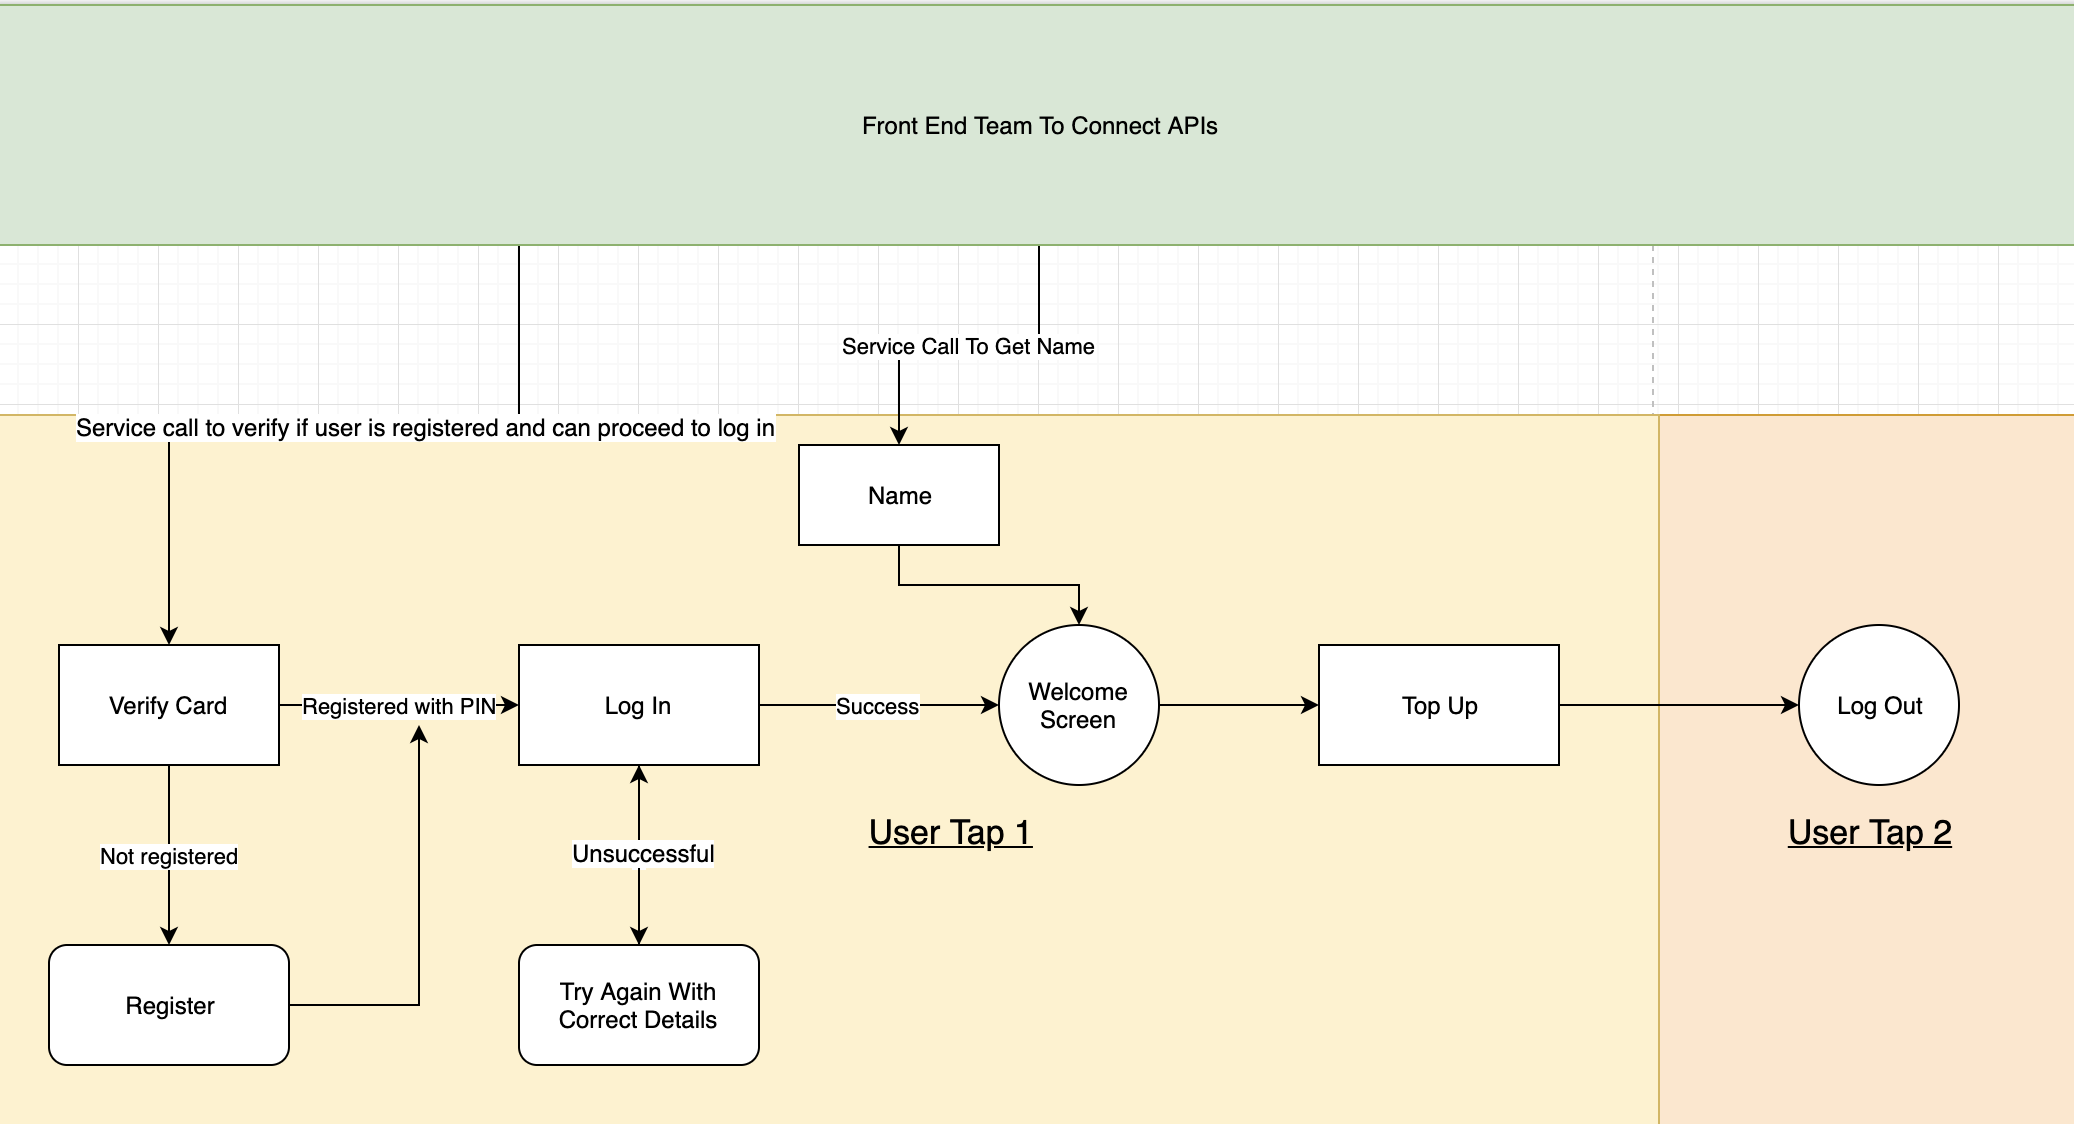
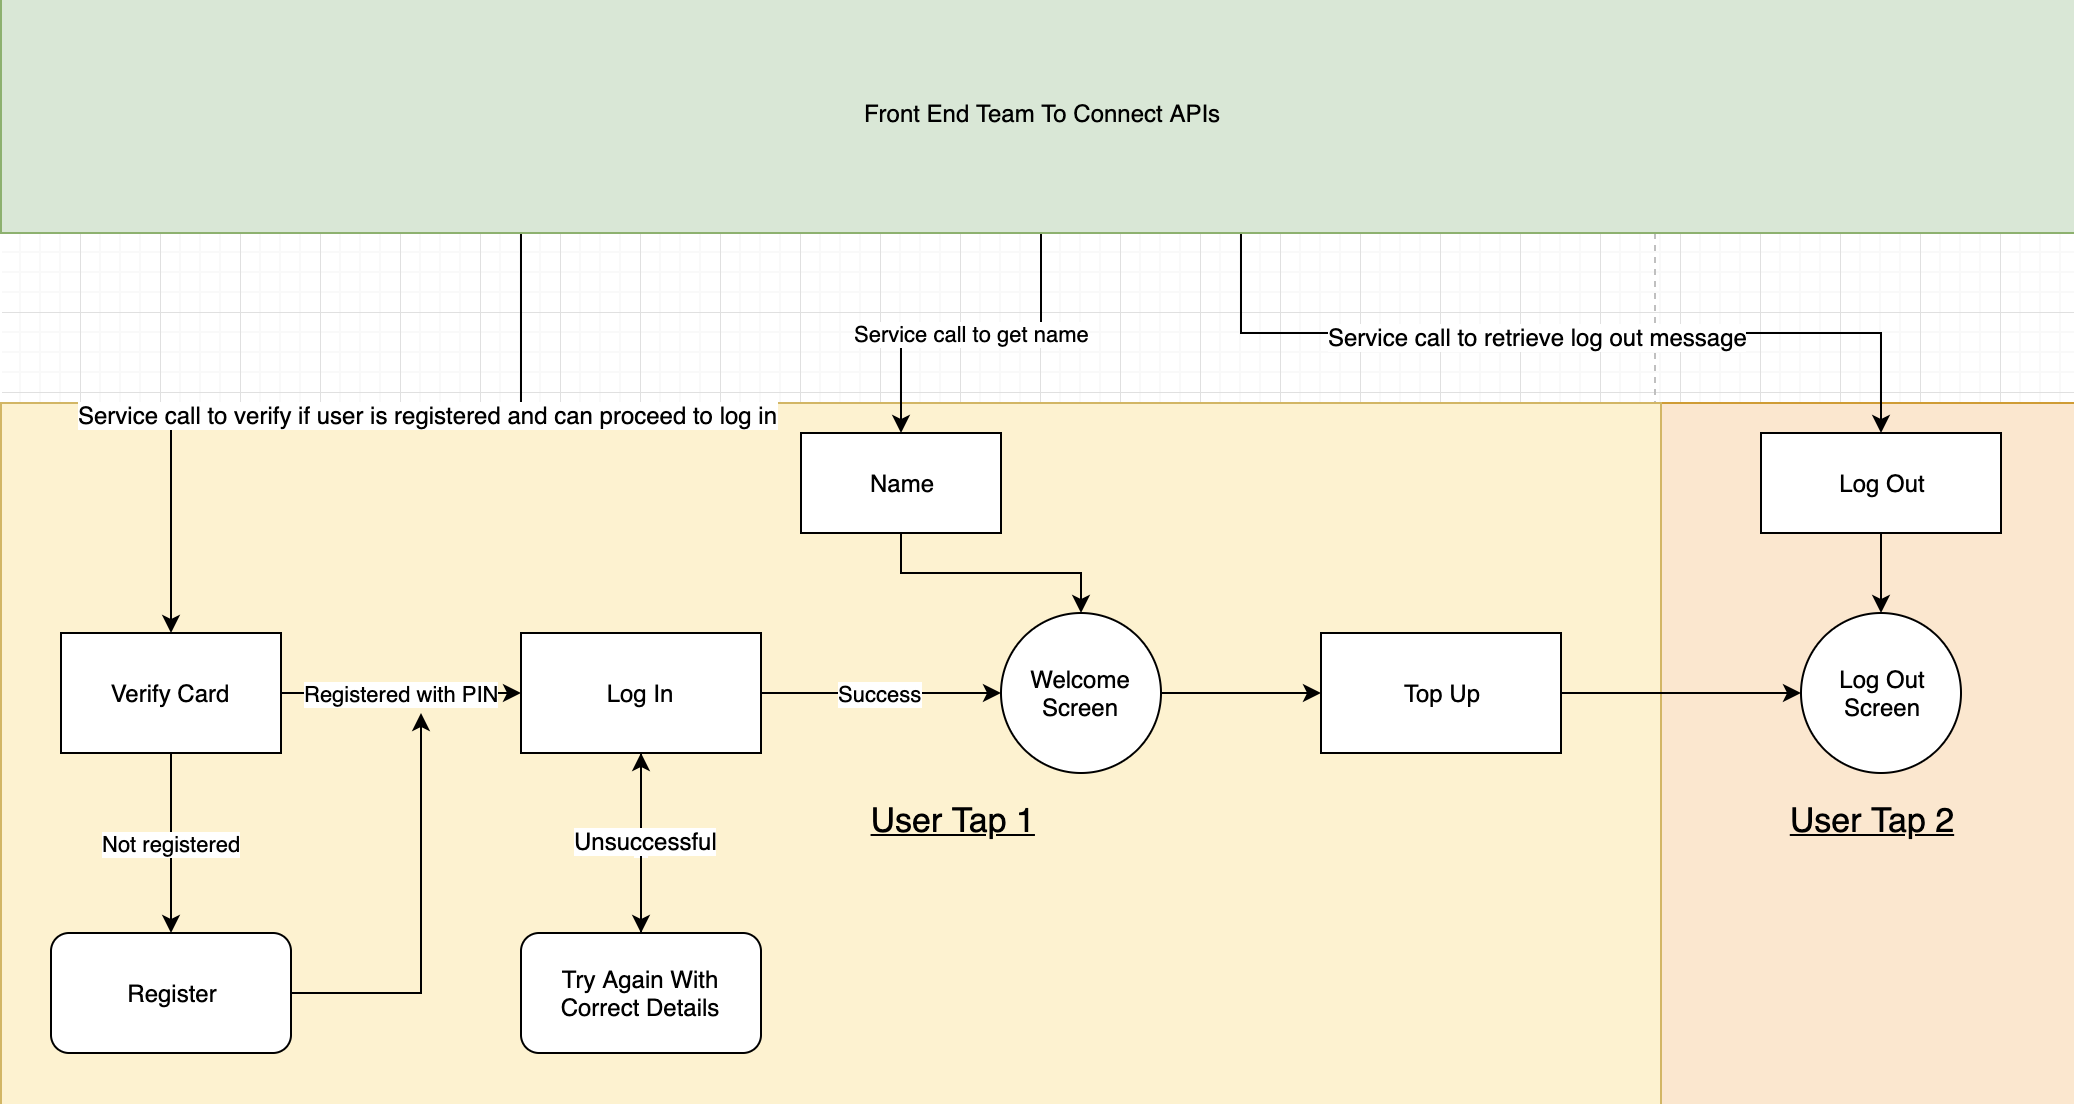
Updated readme and journey image

diff --git a/README.md b/README.md
@@ -69,7 +69,7 @@ https://localhost:5001/card/v1/_interface
 * email
 * mobile number
 
-- A four digit ping will be chosen by the employee for further security.
+- A four digit pin will be chosen by the employee for further security.
 - The application will timeout after 10 minutes.
 
 ## Assumptions made, due to lack of information: ##
@@ -80,30 +80,28 @@ https://localhost:5001/card/v1/_interface
 - It has been assumed that users will not store a significantly large amount of money in the card, thus a balance can only go up to 8 digit number (example - 10000000)
 - It is a requirement that the application should time out after 10 minutes, but it is also a requirement to develop REST API service. REST API services should not be tracking user sessions and each request should be verified, authenticated and authorised, preferably using user or service tokens (depending on the API endpoint). However, as it is has been a requirement to implement a time out and no information is known about currently existing services that could provide user or service tokens, user pin will be stored in memory cache for 10 minutes, this will allow user to use top up endpoint for the next 10 minutes. 
 - It is a requirement to implement an endpoint that will provide a goodbye message. A get endpoint that responds only with a goodbye message has been implemented. As it was not asked for the endpoint to log out the user this has not been implemented.
-- Exception middleware - 
-
 
 ## To do: ## 
-- Build script that will automatically set up the database with all tables and stored procedures
-- OAuth - service - a service that would be responsible for issuing tokens and managing their expiration times. These tokens should be issued after the log in, once the user has managed to successfully log in with their pin and card id.
-- Log out endpoint - currently the log out endpoint only responds with a goodbye message. To improve this endpoint it should be changed to POST request that is also responsible for calling a service for invalidating access tokens.
+- Build script that will automatically set up the database with all tables and stored procedures.
+- OAuth3 - identity - service - a service that would be responsible for issuing tokens and managing their expiration times. User access tokens should be issued after the log in, once the user has managed to successfully log in with their pin and card id. These services should be able to issue both user and service tokens, so the appropriate calls can be made when required.
+- Log out endpoint - currently the log out endpoint only responds with a goodbye message. To improve this endpoint it should be changed to POST request that is also responsible for calling a service responsible for invalidating access tokens.
 - Time outs - when a service issuing tokens is implemented, retries and timeouts calling this service should also be set. This will ensure that if there is a network or connectivity blip/issue the service gets called again and can be resolved successfully.
 - Logs - currently no logging service has been implemented as it is unclear if the client would prefer the logs to be structured in any specific way. Logging service should be implemented and added to log all exceptions and when the operation on each API endpoint has been completed successfully
 - Phone number validation - currently the phone number is not validated as it has not been specified, which countries phone numbers are accepted.
-- Storing pin securely - due to lack of time pin is currently stored only as a string. To improve security storing of pin should be changed to employ salted pin hashing.
+- Storing pin securely - due to lack of time pin is currently stored only as a string. To improve the security of storing a users pin the process should be changed to employ salted pin hashing.
 - Exception handling middleware - an exception handling middleware should be implemented to return standard error responses. As it is unclear what format the client would like to see the errors formatted in, this has not been implemented.
 
 ## Current project limitations: ##
-- Memory cache - using memory cache prevents this system from being highly scalable. Different instances of each application will contain different in memory caches, thus preventing from top up endpoint from being used properly and remembering all cached pins. This can be fixed by using a distributed cache or even better - by using Oauth services and user and service tokens.
+- Memory cache - using memory cache prevents this system from being highly scalable. Different instances of each application will contain different in memory caches, thus preventing top up endpoint from being properly used as each instance will only know certain cached pins. This can be fixed by using a distributed cache or even better - by using Oauth services and user and service tokens.
 - Database connection string - currently is stored as a plain string in appsettings. Connection string of a real database should never be pushed into a github repository. If using aws services connection string could be stored in the parameter store or if deploying to on premise servers it could be injected through Octopus. For development purposed connection string could be stored a user secrets (https://docs.microsoft.com/en-us/aspnet/core/security/app-secrets?view=aspnetcore-3.1&tabs=linux).
 
 ## User Stories: ##
 - As a card user I would like to register a card with the new system.
 - As a card user I would like to be informed if my details have not been registered.
 - As a card user I would like to be informed if my details have not been registered.
-- As an employee I would like to top up my card with credit, so I could purchase food in the future.
+- As a card user I would like to top up my card with credit, so I could purchase food in the future.
 - As a card user I would like to see a greeting message with my name when I tap my card.
-- As a card user I would like to see a goodbye message with my name when I tap my card the second time.
+- As a card user I would like to see a goodbye message when I tap my card the second time.
 - As a card user I will need to present my pin for authentication.
 
 ## List of REST API's required to meet user stories: ##
@@ -114,8 +112,14 @@ https://localhost:5001/card/v1/_interface
 - Top Up endpoint - to be used to top up card balance (user endpoint).
 - Status endpoint - to be integrated for testing purposes to check if the APIs are responding (can be implemented with Runscope).
 - To follow REST API best practises each standpoint should only be concerned about the task it is meant to resolve, should not track users state and should not redirect to any other pages.
-- Single responsibility principle has been followed to ensure each API is only concerned with one task.
-- The selection of API's has been developed to meet the business requirements and proposed journey for how to connect these APIs is show below
+- Single responsibility principle has been followed to ensure each API is only concerned with one clear purpose.
+- The selection of API's has been developed to meet the business requirements and proposed journey for how to connect these APIs is shown below.
+- API should be connected each card is first checked if it has been registered and if pin is present. 
+- If card has not been registed it should redirect the user to registration page. If pin is missing it should be redirected to register pin page (as this has not been a requirement to implement, register pin endpoint is not shown in the journey below).
+- User should be asked to log in first, before they are redirected to welcome screen and a top up page.
+- Service call to get name should be made once it is clear that the registration has been completed sucessfully or it is known that the card has been registered.
+- Welcome screen should deploy user name and a greeting message it can either be on the same page as top up screen or redirect to top up page next.
+- As it is a requirement to implement an endpoint for a goodbye message there is a log out API that can be used to retrieve the log out message. However, as the endpoint only sends back a goodbye string, in the future it is advised to either add further functionality to the log out endpoint or just automatically display a log out screen without a need to call a back end API.
 ![journey](images/journey.png?raw=true "journey")
 
 ## Database assumptions ##
